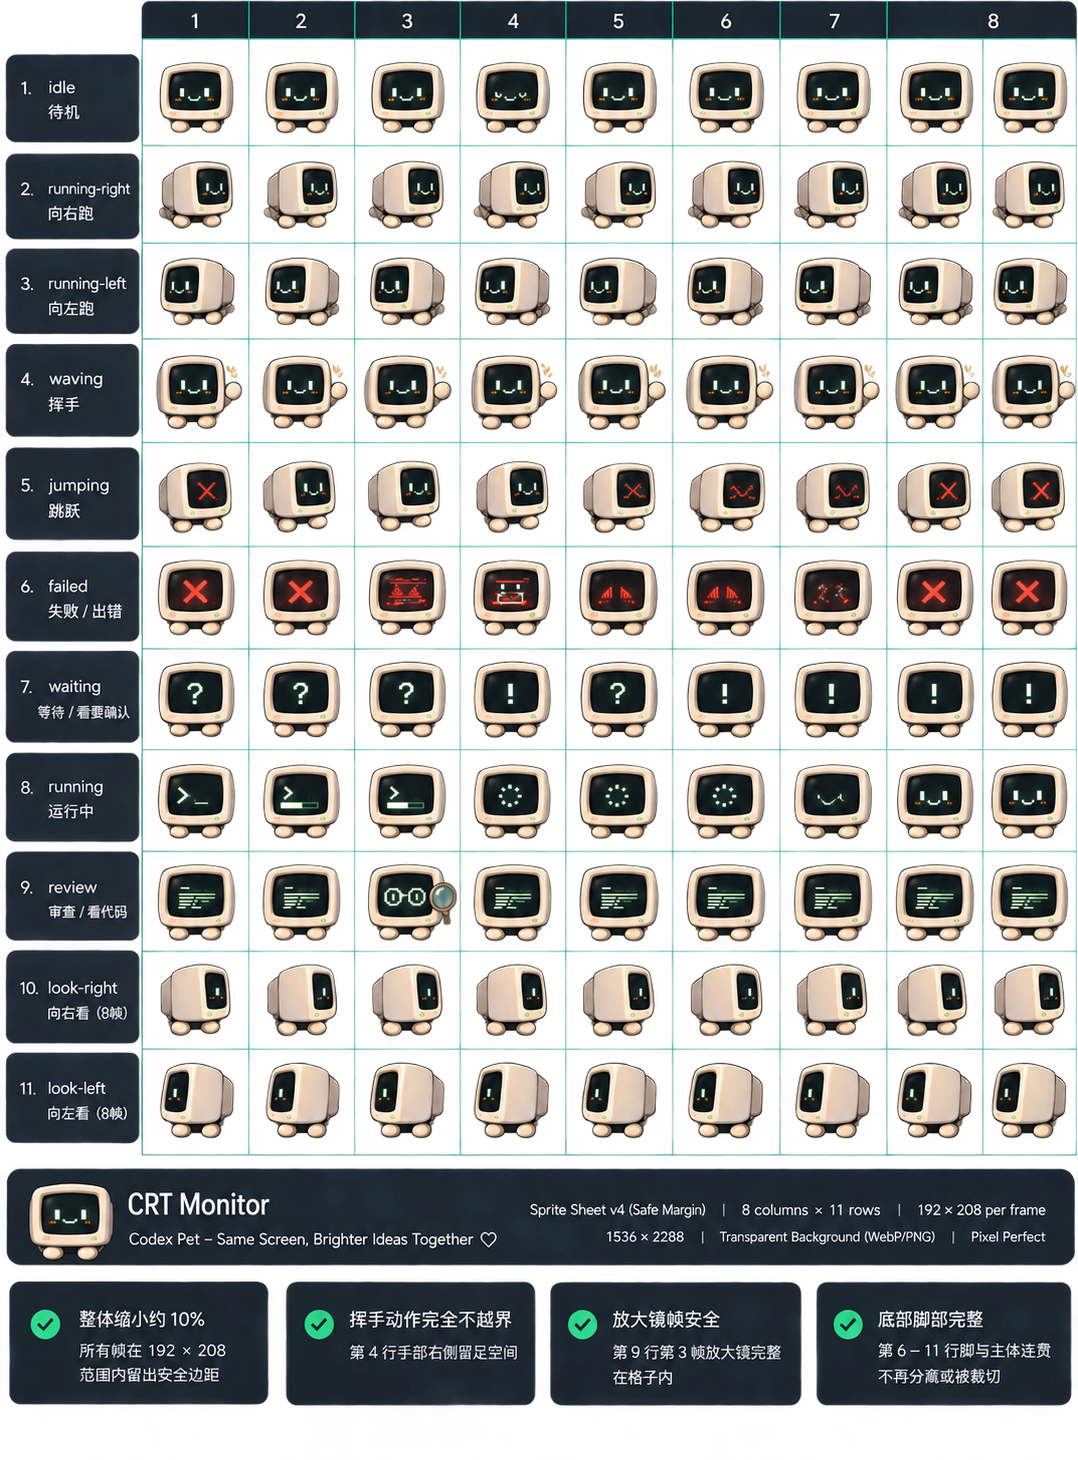
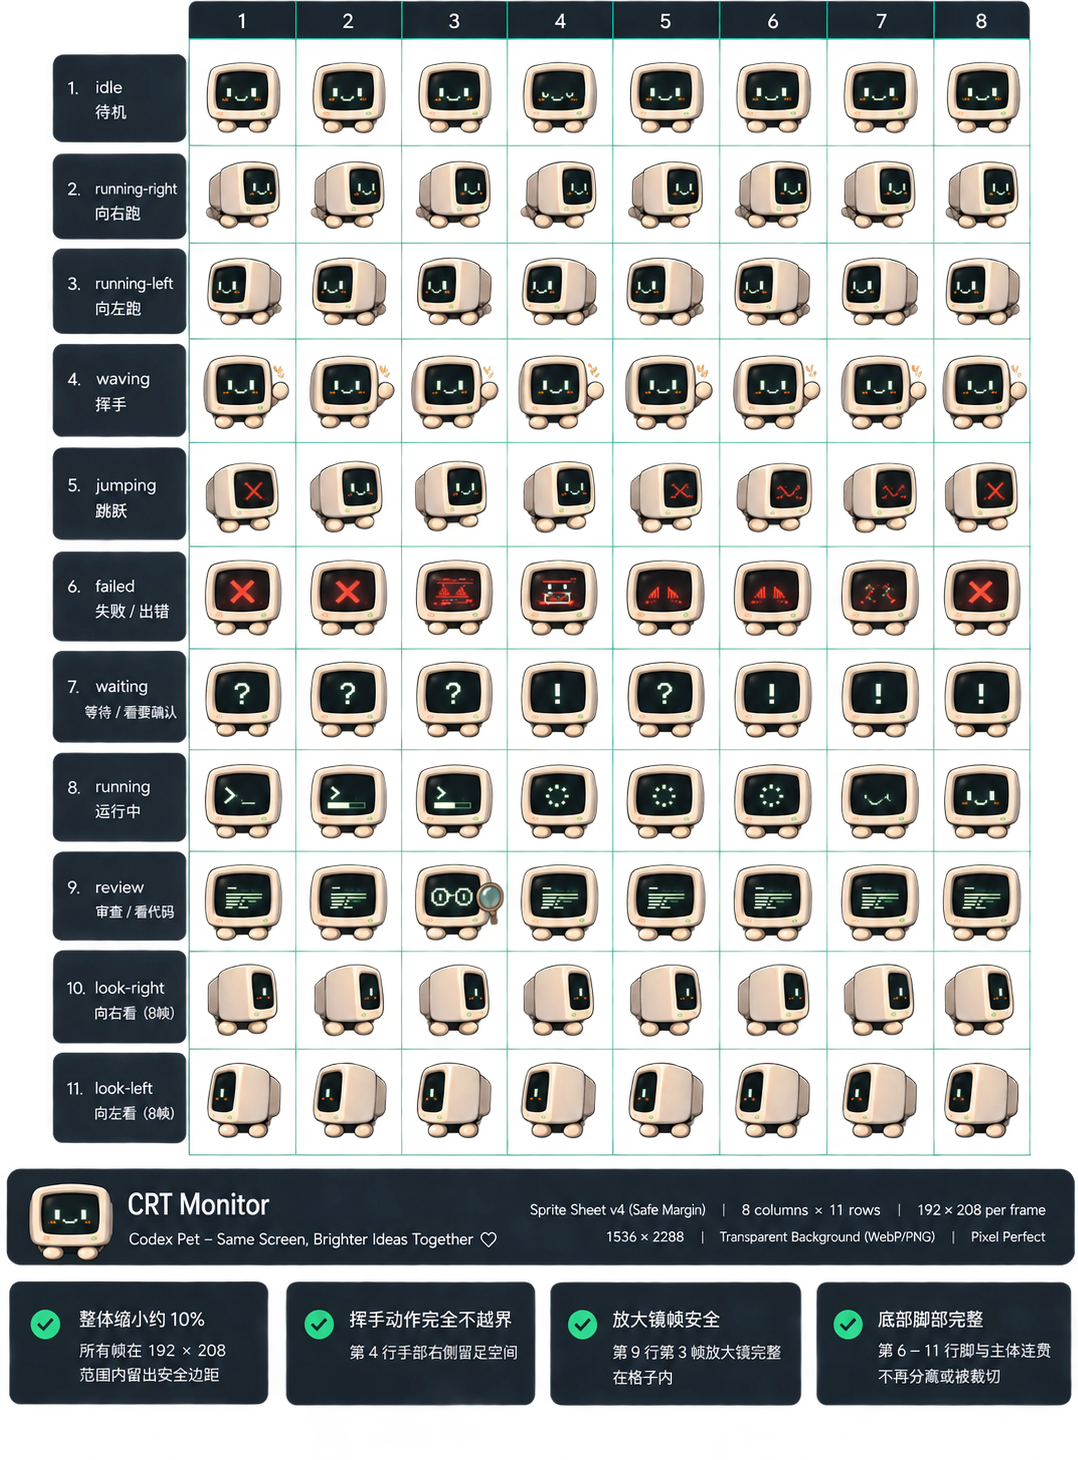
Fix source grid and add frame audit

diff --git a/scripts/generate-preview-and-audit.py b/scripts/generate-preview-and-audit.py
@@ -1,0 +1,101 @@
+#!/usr/bin/env python3
+from collections import defaultdict
+from hashlib import sha256
+from pathlib import Path
+
+from PIL import Image, ImageDraw
+
+
+ROOT = Path(__file__).resolve().parents[1]
+SPRITESHEET = ROOT / "pet/spritesheet.webp"
+PREVIEW = ROOT / "assets/preview-grid.png"
+AUDIT = ROOT / "assets/frame-audit.md"
+
+COLS, ROWS = 8, 11
+CELL_W, CELL_H = 192, 208
+EXPECTED_SIZE = (COLS * CELL_W, ROWS * CELL_H)
+
+atlas = Image.open(SPRITESHEET).convert("RGBA")
+if atlas.size != EXPECTED_SIZE:
+    raise SystemExit(f"expected {EXPECTED_SIZE}, got {atlas.size}")
+
+# Native-resolution contact sheet. The checkerboard is only a preview backdrop;
+# atlas pixels are composited at 1:1 with no scaling or interpolation.
+checker = Image.new("RGBA", atlas.size, "#f2f4f4")
+draw = ImageDraw.Draw(checker)
+checker_size = 32
+for y in range(0, atlas.height, checker_size):
+    for x in range(0, atlas.width, checker_size):
+        if (x // checker_size + y // checker_size) % 2:
+            draw.rectangle(
+                (x, y, min(x + checker_size - 1, atlas.width - 1), min(y + checker_size - 1, atlas.height - 1)),
+                fill="#d7dbdc",
+            )
+preview = Image.alpha_composite(checker, atlas)
+guide = ImageDraw.Draw(preview)
+for x in range(0, atlas.width + 1, CELL_W):
+    guide.line((min(x, atlas.width - 1), 0, min(x, atlas.width - 1), atlas.height - 1), fill="#00a88f", width=1)
+for y in range(0, atlas.height + 1, CELL_H):
+    guide.line((0, min(y, atlas.height - 1), atlas.width - 1, min(y, atlas.height - 1)), fill="#00a88f", width=1)
+preview.convert("RGB").save(PREVIEW, format="PNG", optimize=True)
+
+frame_hashes = []
+hash_locations = defaultdict(list)
+for row in range(ROWS):
+    row_hashes = []
+    for col in range(COLS):
+        frame = atlas.crop((col * CELL_W, row * CELL_H, (col + 1) * CELL_W, (row + 1) * CELL_H))
+        digest = sha256(frame.tobytes()).hexdigest()
+        row_hashes.append(digest)
+        hash_locations[digest].append((row + 1, col + 1))
+    frame_hashes.append(row_hashes)
+
+column_hashes = []
+for col in range(COLS):
+    column_bytes = b"".join(
+        atlas.crop((col * CELL_W, row * CELL_H, (col + 1) * CELL_W, (row + 1) * CELL_H)).tobytes()
+        for row in range(ROWS)
+    )
+    column_hashes.append(sha256(column_bytes).hexdigest())
+
+duplicates = [(digest, locations) for digest, locations in hash_locations.items() if len(locations) > 1]
+duplicate_columns = defaultdict(list)
+for col, digest in enumerate(column_hashes, 1):
+    duplicate_columns[digest].append(col)
+duplicate_column_groups = [cols for cols in duplicate_columns.values() if len(cols) > 1]
+
+lines = [
+    "# Runtime Sprite Audit",
+    "",
+    f"- Atlas: `{atlas.width}×{atlas.height}` WebP",
+    f"- Grid: `{COLS}×{ROWS}` (`{COLS * ROWS}` frames)",
+    f"- Cell: `{CELL_W}×{CELL_H}` RGBA after decoding",
+    f"- Atlas SHA-256: `{sha256(SPRITESHEET.read_bytes()).hexdigest()}`",
+    "- Method: SHA-256 over every decoded RGBA cell; SHA-256 over each complete 11-frame column.",
+    "",
+    "## Duplicate result",
+    "",
+]
+if duplicates:
+    lines.append("Exact duplicate decoded frames were found:")
+    lines.append("")
+    for digest, locations in duplicates:
+        joined = ", ".join(f"R{row}C{col}" for row, col in locations)
+        lines.append(f"- `{digest}`: {joined}")
+else:
+    lines.append("No exact duplicate decoded frames were found among the 88 cells.")
+lines.extend(["", "No complete duplicate columns were found." if not duplicate_column_groups else f"Duplicate column groups: {duplicate_column_groups}", "", "## Per-frame hashes", ""])
+lines.append("| Row | C1 | C2 | C3 | C4 | C5 | C6 | C7 | C8 |")
+lines.append("| ---: | --- | --- | --- | --- | --- | --- | --- | --- |")
+for row, hashes in enumerate(frame_hashes, 1):
+    lines.append("| " + str(row) + " | " + " | ".join(f"`{digest[:12]}`" for digest in hashes) + " |")
+lines.extend(["", "## Per-column hashes", ""])
+for col, digest in enumerate(column_hashes, 1):
+    lines.append(f"- C{col}: `{digest}`")
+lines.append("")
+
+AUDIT.write_text("\n".join(lines), encoding="utf-8")
+print(f"wrote {PREVIEW.relative_to(ROOT)} ({preview.width}x{preview.height})")
+print(f"wrote {AUDIT.relative_to(ROOT)}")
+print(f"exact duplicate frame groups: {len(duplicates)}")
+print(f"exact duplicate column groups: {len(duplicate_column_groups)}")

diff --git a/assets/frame-audit.md b/assets/frame-audit.md
@@ -1,0 +1,40 @@
+# Runtime Sprite Audit
+
+- Atlas: `1536×2288` WebP
+- Grid: `8×11` (`88` frames)
+- Cell: `192×208` RGBA after decoding
[1 lines of base64/hex data omitted]
+- Method: SHA-256 over every decoded RGBA cell; SHA-256 over each complete 11-frame column.
+
+## Duplicate result
+
+No exact duplicate decoded frames were found among the 88 cells.
+
+No complete duplicate columns were found.
+
+## Per-frame hashes
+
+| Row | C1 | C2 | C3 | C4 | C5 | C6 | C7 | C8 |
+| ---: | --- | --- | --- | --- | --- | --- | --- | --- |
+| 1 | `3c1e9948e938` | `6717071f3597` | `e7112a9e97a1` | `479ec5e45952` | `c953371632a0` | `445f01e3abee` | `f9ce680fef11` | `31cf528dcb18` |
+| 2 | `306cb8b99cab` | `548dcdfd121c` | `2556b705a7aa` | `90afb9c5064f` | `13bb3fcca804` | `9ebbfc1fae47` | `d6a4db310763` | `4f662b6b3bbd` |
+| 3 | `2edb8e73c6bc` | `ae1cf98ce407` | `7fdc60b9ed13` | `f2fd389c6287` | `292191fec01b` | `151e3d118303` | `0a564e21f9ea` | `eb99c7c4ce69` |
+| 4 | `2855ce579230` | `d06a150b149e` | `116719f7259d` | `93e681d6caad` | `59398cf4d1a4` | `afb594406dc2` | `02261ff4fa43` | `0cb52830aefc` |
+| 5 | `14118fc0277e` | `d4a795a99022` | `e931c8bcb179` | `36e1982c2f86` | `59bf0118b5f7` | `487e35e126ef` | `e04f330278cf` | `edd667be8b90` |
+| 6 | `364cf750fe38` | `9a36fb1e76c9` | `66256a0f2908` | `4d831e9ea684` | `670249faf108` | `78e28e64cebe` | `53ef4954ffc8` | `dafcc4cc308c` |
+| 7 | `521ab119a9b6` | `8f86d19d85d5` | `c9568c28286f` | `3dabb610c55e` | `00ac839e0eca` | `96da2a39efc4` | `ef91cc8ef11f` | `8367097745bd` |
+| 8 | `04ddc279075d` | `e2aa9a7fe4a9` | `cb57aa5324bb` | `46a34a1d47e2` | `8954e96b1d77` | `e057809d6dfe` | `a83d764498d7` | `d20b32e427f3` |
+| 9 | `c5d264e81253` | `ea31530c4f16` | `f10eb1f6e340` | `7eb266881b4b` | `4888c5a1fc82` | `3d25a419cfef` | `610925b705e8` | `5dbc0160c798` |
+| 10 | `c3b9d56c0124` | `2c0b90256b4c` | `f904e926a9e1` | `36475740248f` | `2b9acd2ae6ee` | `bfc1f03cecd6` | `cde1b3aae57b` | `ae9e1fddc5d2` |
+| 11 | `7c32409ea146` | `ad90ef90393e` | `045258471f71` | `cefc7070a028` | `9edadb924546` | `2388e8e51423` | `cc30e854148d` | `31773cb49b6b` |
+
+## Per-column hashes
+
[8 lines of base64/hex data omitted]

diff --git a/CHANGELOG.md b/CHANGELOG.md
@@ -1,10 +1,16 @@
 # Changelog
 
+## Unreleased
+
+- Removed the accidental unlabeled ninth column from the source-design board without redrawing the retained artwork.
+- Regenerated the contact sheet from the unchanged runtime atlas at native 1536×2288 resolution.
+- Added a reproducible 88-frame and 8-column duplicate audit.
+
 ## 1.0.0 — 2026-09-10
 
 - Initial public release candidate.
 - Codex Pet v2 atlas, 8×11 frames.
-- Corrected production cut from the approved 9-column working design.
+- Finalized the production cut as an 8×11 frame set.
 - Shared frame scaling/baseline to avoid size popping.
 - Added macOS/Linux and Windows installers.
 - Added validator and community submission generator.

diff --git a/README.md b/README.md
@@ -50,6 +50,8 @@ Restart Codex, then choose **CRT Monitor** in **Settings → Appearance → Pets
 | Animations | 9 standard states + 16 look directions |
 | Background | Transparent |
 
+The native-resolution [8×11 contact sheet](assets/preview-grid.png) is generated directly from the runtime atlas without scaling. The [frame audit](assets/frame-audit.md) records hashes for all 88 decoded cells and all eight columns.
+
 ## Contributing
 
 Contributions that improve animation continuity, screen expressions, accessibility, documentation, installers, or compatible visual variants are welcome. See [CONTRIBUTING.md](CONTRIBUTING.md).

diff --git a/README.zh-CN.md b/README.zh-CN.md
@@ -50,6 +50,8 @@ cp pet/pet.json pet/spritesheet.webp ~/.codex/pets/crt-monitor/
 | 动画 | 9 个标准状态 + 16 个观察方向 |
 | 背景 | 透明 |
 
+原生分辨率的 [8×11 Contact sheet](assets/preview-grid.png) 直接从运行时 atlas 生成、未经缩放。[逐帧审计](assets/frame-audit.md) 记录了全部 88 个解码单元格和 8 列的哈希。
+
 ## 参与贡献
 
 欢迎改进动画连续性、屏幕表情、无障碍表现、文档、安装脚本以及兼容的视觉变体。详细说明见 [CONTRIBUTING.md](CONTRIBUTING.md)。

diff --git a/docs/DESIGN.md b/docs/DESIGN.md
@@ -29,7 +29,7 @@ CRT Monitor is an original chibi retro computer monitor with:
 
 ## Production constraints
 
-The approved working design used 9 visual cells per row. The runtime atlas uses the labeled first 8 cells only.
+The source board and runtime atlas both present the final 8×11 frame set. The contact sheet is generated from the runtime atlas at native resolution, with no scaling or interpolation. Per-frame and per-column decoded-pixel hashes are recorded in [`assets/frame-audit.md`](../assets/frame-audit.md).
 
 Important invariants:
 
